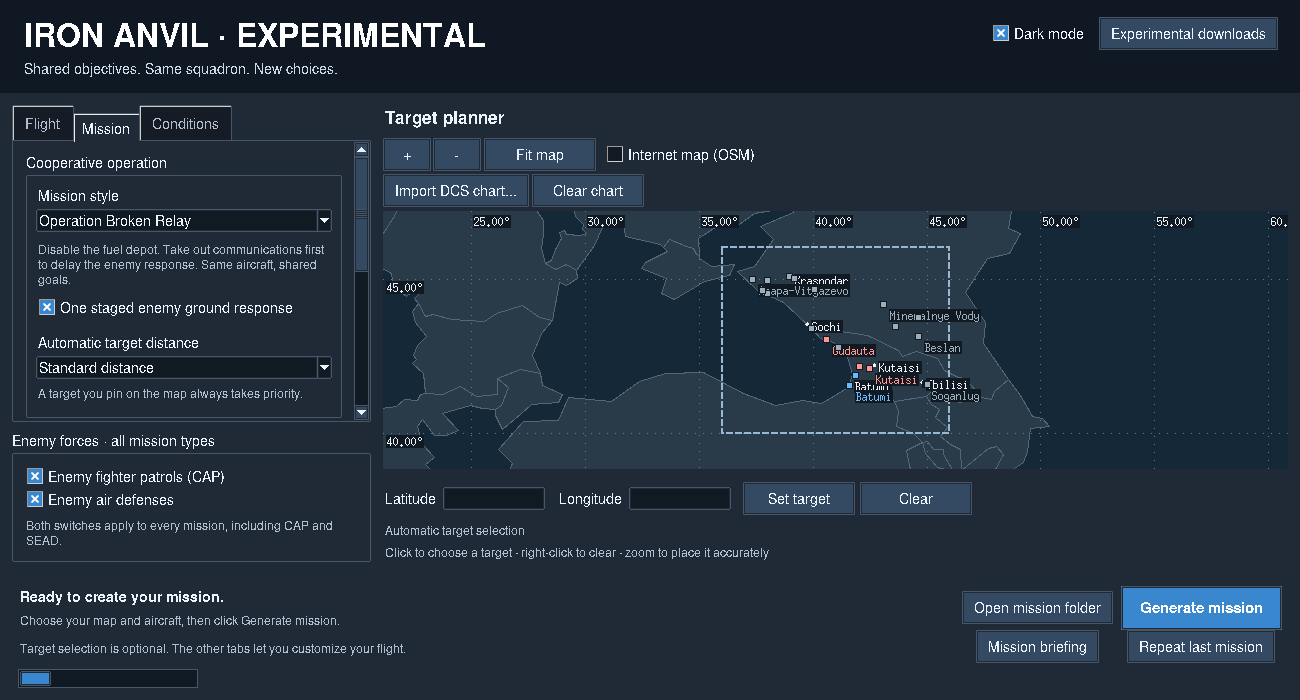
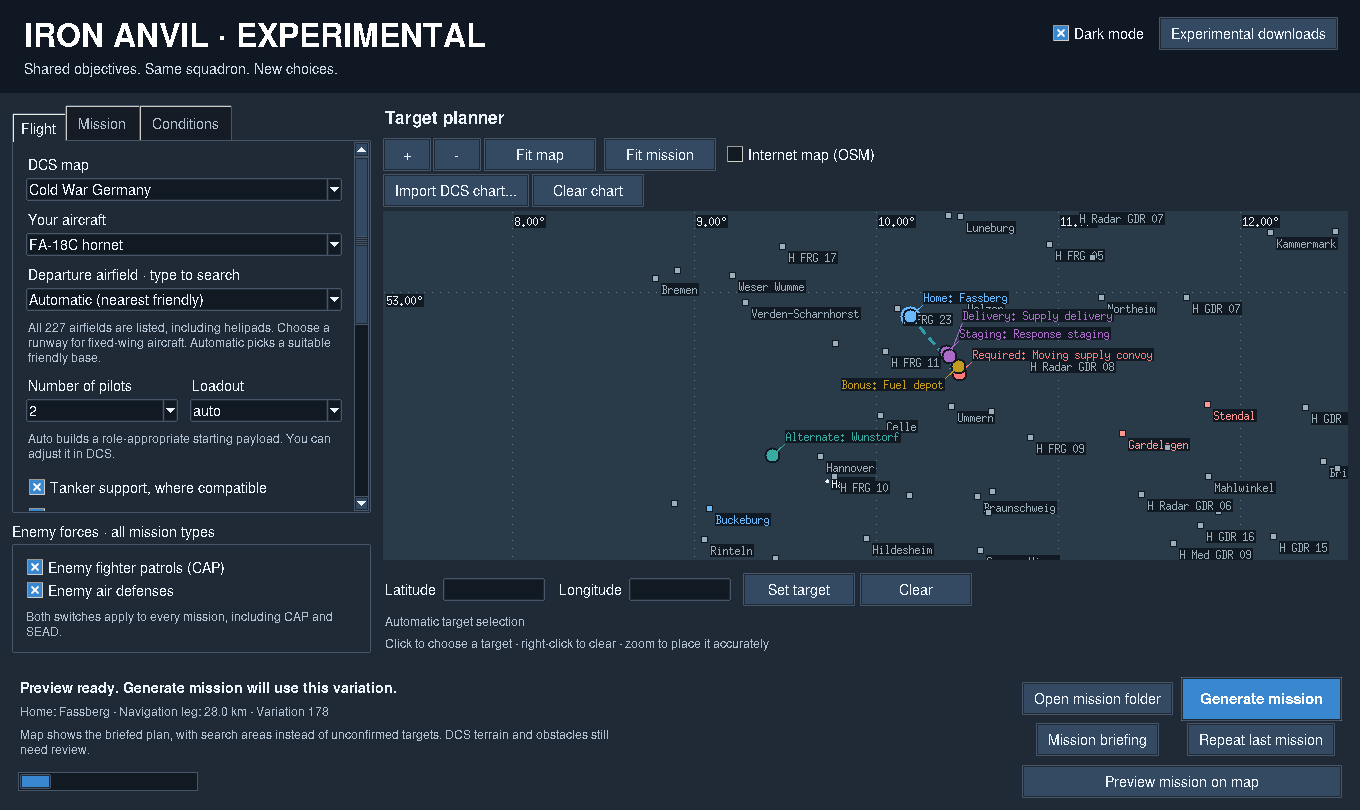
[publish-preview] Package convoy, recovery and intelligence update; verify actual preview upgrade

diff --git a/packaging/entrypoint.py b/packaging/entrypoint.py
@@ -157,15 +157,23 @@ def self_test() -> dict:
             cases.append(MissionOptions(map="caucasus", mission="facility", clients=2,
                                         weather=weather, seed=42))
         for key in THEATRES:
-            for operation in ("broken_relay", "supply_denial"):
+            for operation in ("broken_relay", "supply_denial", "rolling_thunder"):
                 for response in (False, True):
                     cases.append(MissionOptions(map=key, operation=operation, enemy_response=response,
                         seed=42, tanker=True, awacs=True, enemy_cap=False, air_defenses=False))
+            for operation in ("broken_relay", "rolling_thunder"):
+                cases.append(MissionOptions(map=key, operation=operation, intelligence="search",
+                    recovery="home_or_alternate", seed=178, tanker=True, awacs=True))
+            for aircraft in ("FA_18C_hornet", "AH_64D_BLK_II"):
+                cases.append(MissionOptions(map=key, aircraft=aircraft, operation="broken_relay",
+                    recovery="home_or_alternate", start="air", seed=91))
         missions = []
         weather_checks = {}
         facility_checks = []
         support_checks = 0
         operation_checks = 0
+        intelligence_checks = 0
+        alternate_checks = 0
         for index, options in enumerate(cases):
             path = generate(options, directory / f"mission-{index}.miz")
             with zipfile.ZipFile(path) as archive:
@@ -183,6 +191,15 @@ def self_test() -> dict:
                     raise RuntimeError("Mission settings cannot be replayed")
                 if not is_land(metadata["target_lat"], metadata["target_lon"]):
                     raise RuntimeError(f"Default target is offshore: {path.name}")
+                if options.intelligence == "search":
+                    roles={point["role"] for point in metadata["planner"]["points"]}
+                    if roles != {"home", "alternate", "search"}:
+                        raise RuntimeError("Search planner exposed an exact target or omitted an approved base")
+                    public=archive.read("ironanvil-briefing.html").decode()+archive.read("l10n/DEFAULT/dictionary").decode()
+                    actual=f"{metadata['target_lat']:.5f}, {metadata['target_lon']:.5f}"
+                    if actual in public:
+                        raise RuntimeError("Search briefing exposed exact target coordinates")
+                    intelligence_checks += 1
                 warehouses = lua.loads(archive.read("warehouses").decode("utf-8"))["warehouses"]
                 home = warehouses["airports"][metadata["home_airport_id"]]
                 if home["coalition"] != "BLUE" or not home["unlimitedFuel"] or not home["unlimitedMunitions"]:
@@ -196,6 +213,12 @@ def self_test() -> dict:
                     if metadata["options"][toggle] is not getattr(options, toggle):
                         raise RuntimeError(f"Enemy toggle mismatch: {path.name}")
                 saved = lua.loads(archive.read("mission").decode("utf-8"))["mission"]
+                if options.intelligence == "search":
+                    for country in saved["coalition"]["red"]["country"].values():
+                        for category in ("vehicle", "static"):
+                            for group in country.get(category, {}).get("group", {}).values():
+                                if group.get("hidden") is not True:
+                                    raise RuntimeError("Search mission exposes enemy ground symbols on F10")
                 weather = saved["weather"]
                 if options.mission == "facility":
                     sites = metadata["facility_sites"]
@@ -225,7 +248,8 @@ def self_test() -> dict:
                         if len(operation["objectives"]) != 2 or bool(operation.get("response")) != options.enemy_response:
                             raise RuntimeError("Operation roles or response switch failed")
                         primary, bonus = operation["objectives"]
-                        if not primary["required"] or bonus["required"] or primary["threshold"] > len(primary["statics"]):
+                        target_count=len(primary.get("statics", []))+len(primary.get("units", []))
+                        if not primary["required"] or bonus["required"] or primary["threshold"] > target_count:
                             raise RuntimeError("Operation cannot complete with its generated objects")
                         if ("OPERATION RESPONSE" in red_vehicles) != options.enemy_response:
                             raise RuntimeError("Saved response force does not match the selected option")
@@ -277,14 +301,36 @@ def self_test() -> dict:
                 raise RuntimeError(f"Multiplayer slots failed to reload: {path.name}")
             if not reloaded.terrain.airport_by_id(metadata["home_airport_id"]).is_blue():
                 raise RuntimeError(f"Selected airfield is not friendly: {path.name}")
+            if options.recovery == "home_or_alternate":
+                bases=metadata["runtime"]["recovery_bases"]
+                if len(bases)!=2 or bases[0]["name"]==bases[1]["name"]:
+                    raise RuntimeError("Alternate recovery needs two distinct approved bases")
+                for base in bases:
+                    airport=next(a for a in reloaded.terrain.airports.values() if a.name==base["name"])
+                    supply=warehouses["airports"][airport.id]
+                    if not airport.is_blue() or not supply["unlimitedFuel"] or not supply["unlimitedMunitions"]:
+                        raise RuntimeError("An approved recovery base is not friendly and supplied")
+                    if options.aircraft=="FA_18C_hornet" and not airport.runways:
+                        raise RuntimeError("Fixed-wing alternate has no runway")
+                alternate_checks+=1
+            if options.intelligence == "search":
+                center=metadata["runtime"]["intelligence"]["center"]
+                search=next(point for point in clients.points if point.name=="SEARCH AREA")
+                if (abs(search.position.x-center["x"])>.01 or abs(search.position.y-center["z"])>.01
+                        or any(point.name=="BONUS - OPTIONAL" for point in clients.points)):
+                    raise RuntimeError("Search flight route exposes an exact objective")
             missions.append({"map": options.map, "mission": options.mission,
                              "opposition": options.enemy_cap, "weather": options.weather,
-                             "departure": metadata["home_airport"]})
+                             "departure": metadata["home_airport"], "operation": options.operation,
+                             "intelligence": options.intelligence, "recovery": options.recovery,
+                             "aircraft": options.aircraft})
         checks.append(f"Generated and reloaded {len(missions)} missions: all maps/types/opposition, selected airfields and every weather")
         checks.append("Actual serialized rain, thunderstorm, fog and winds verified and reloaded")
         checks.append("Classic facilities retain three occupied sites; cooperative operations contain required and optional sites")
         checks.append("All missions contain decoded kneeboards, standalone briefings and replayable settings")
-        checks.append("Twelve cooperative operations cover both profiles, all maps and the response switch")
+        checks.append(f"{operation_checks} cooperative operations cover all three profiles, maps and the response switch")
+        checks.append(f"{intelligence_checks} search missions withhold exact coordinates, F10 symbols and navigation waypoints")
+        checks.append(f"{alternate_checks} jet/helicopter alternate-recovery missions verify distinct friendly supplied bases")
         checks.append("Support aircraft have immediate roles/protection and complete three-point racetrack routes")
 
     # These destinations are deliberately outside PyInstaller's read-only bundle.
@@ -295,6 +341,7 @@ def self_test() -> dict:
                 raise RuntimeError(f"Application data would be written into its installation: {output}")
     return {"channel": "experimental", "checks": checks, "missions": missions, "mission_count": len(missions),
             "operation_checks": operation_checks, "kneeboard_checks": len(missions),
+            "intelligence_checks": intelligence_checks, "alternate_checks": alternate_checks,
             "airport_counts": airport_counts, "weather_checks": weather_checks,
             "facility_checks": facility_checks, "support_checks": support_checks,
             "aircraft_count": len(catalogue), "pyproj_version": pyproj.__version__}
@@ -307,6 +354,8 @@ def smoke_gui() -> dict:
     from ironanvil.theatres import THEATRES
     from ironanvil.weather import WEATHER_LABELS
     from ironanvil.operations import OPERATION_LABELS, PACE_LABELS
+    from ironanvil.model import INTELLIGENCE_LABELS, RECOVERY_LABELS
+    import time
 
     original_data_dir = os.environ.get("IRONANVIL_DATA_DIR")
     with tempfile.TemporaryDirectory(prefix="IronAnvil-gui-test-") as temporary:
@@ -341,13 +390,27 @@ def smoke_gui() -> dict:
                     raise RuntimeError(f"Weather selector is missing {key}")
             app.departure_var.set("Stendal")
             app.weather_var.set(WEATHER_LABELS["rain"])
-            for operation in ("broken_relay", "supply_denial"):
+            for operation in ("broken_relay", "supply_denial", "rolling_thunder"):
                 app.operation_var.set(OPERATION_LABELS[operation])
                 app._operation_changed()
                 if app.collect_options().operation != operation:
                     raise RuntimeError("Desktop cooperative operation selector failed")
             app.pace_var.set(PACE_LABELS["compact"])
             app.response_var.set(False)
+            app.intelligence_var.set(INTELLIGENCE_LABELS["search"])
+            app.recovery_var.set(RECOVERY_LABELS["home_or_alternate"])
+            app.withdrawal_var.set(False)
+            app.seed_var.set("178")
+            app._preview()
+            deadline=time.monotonic()+45
+            while app._busy and time.monotonic()<deadline:
+                app.update();time.sleep(.01)
+            if app._busy or not app._preview_metadata or errors:
+                raise RuntimeError("Desktop mission preview failed")
+            roles={point["role"] for point in app._preview_metadata["planner"]["points"]}
+            app.map_view._render()
+            if roles!={"home", "alternate", "search"} or not app.map_view.canvas.find_withtag("mission-plan"):
+                raise RuntimeError("Desktop search preview exposes hidden targets or lacks map markers")
             app._save_settings()
             app.after(750, app.quit)
             app.mainloop()
@@ -360,14 +423,17 @@ def smoke_gui() -> dict:
             app.update()
             if (app.theme_var.get() != "light" or app.departure_var.get() != "Stendal"
                     or app.weather_var.get() != WEATHER_LABELS["rain"]
-                    or app.collect_options().operation != "supply_denial"
-                    or app.collect_options().pace != "compact" or app.collect_options().enemy_response):
+                    or app.collect_options().operation != "rolling_thunder"
+                    or app.collect_options().pace != "compact" or app.collect_options().enemy_response
+                    or app.collect_options().intelligence != "search"
+                    or app.collect_options().recovery != "home_or_alternate" or app.collect_options().allow_withdrawal):
                 raise RuntimeError("Preferences did not survive a desktop restart")
             if errors:
                 raise RuntimeError("Tk callback failed after restart: " + errors[0])
             return {"checks": ["Actual desktop window opened", "All three offline maps rendered in dark and light modes",
-                               "Complete airfield/weather selectors", "Theme, airfield and weather survive restart", "Tk event loop completed"],
-                    "maps": rendered, "tk_version": tk_version, "preferences_reloaded": True}
+                               "Complete airfield/weather selectors", "Asynchronous search mission preview renders public map markers",
+                               "Theme, airfield, weather and operation/intelligence/recovery controls survive restart", "Tk event loop completed"],
+                    "maps": rendered, "tk_version": tk_version, "preferences_reloaded": True, "mission_preview_passed": True}
         finally:
             if app is not None:
                 app.destroy()
@@ -392,6 +458,8 @@ def main(argv: list[str] | None = None) -> int:
     try:
         log_path = configure_logging()
         if testing:
+            from ironanvil import __version__, RELEASE_TAG
+            report.update(version=__version__, release_tag=RELEASE_TAG)
             report.update(self_test() if args.self_test else smoke_gui())
             report["ok"] = True
             logging.info("%s passed", report["mode"])

diff --git a/ironanvil/operations.py b/ironanvil/operations.py
@@ -127,13 +127,13 @@ def operation_briefing(operation):
         kind = 'supply trucks' if objective.get('units') else 'objective structures'
         lines.append(f"{role}: {objective['title']} — disable {objective['threshold']} of {total} {kind}. Guards and scenery do not count.")
     if operation.get('convoy'):
-        lines.extend(['The supply convoy departs when a client is airborne. F10 target position follows the live convoy.',
+        lines.extend(['The supply convoy departs when a client is airborne. Once intelligence is confirmed, F10 target position follows the live convoy.',
                       'Stop two supply trucks before delivery for 150 extra shared points. Escorts are not mandatory targets.',
                       'Delivery does not fail the mission, but a surviving convoy can accelerate a still-preparing response to one minute.'])
     response = operation.get('response')
     if response:
         lines.extend([
-            f"The first damage to either site raises the alarm. One finite ground response can dispatch after {response['delay']} seconds, then must travel to the main site.",
+            f"The first damage to a required or bonus objective raises the alarm. One finite ground response can dispatch after {response['delay']} seconds, then must travel to " + ('the convoy delivery area.' if operation.get('convoy') else 'the main site.'),
             ('Disable communications before dispatch to add six minutes to the response delay.'
              if operation['id'] == 'broken_relay' else
              'Disable the bonus fuel site before dispatch to cancel the response. A force already dispatched will not disappear.'),
@@ -141,7 +141,7 @@ def operation_briefing(operation):
         ])
     else:
         lines.append('Ground response is disabled. The optional site still earns a bonus.')
-    lines.extend(['After the required objective is disabled, return to home base. You may complete the bonus before recovering.',
+    lines.extend(['After the required objective is disabled, recover at an approved base. You may complete the bonus before recovering.',
                   'F10 > Iron Anvil > Operation status shows individual goals and the response state.',
                   'Main objective: 300 points; bonus: 100; each surviving client recovered: 25. Score is shared, not a kill contest.',
                   f"Replay seed: {operation['seed']}."])

diff --git a/tests/test_intelligence.py b/tests/test_intelligence.py
@@ -48,3 +48,18 @@ def test_ground_search_mode_is_optional_and_cap_rejects_it():
     assert MissionOptions(intelligence='precise').validate()
     with pytest.raises(ValueError,match='ground missions'):MissionOptions(mission='cap',intelligence='search').validate()
     with pytest.raises(ValueError):MissionOptions(intelligence='unknown').validate()
+
+
+@pytest.mark.parametrize('terrain',['caucasus','syria','germany'])
+@pytest.mark.parametrize('mission_type',['facility','line','convoy','sead'])
+def test_classic_ground_missions_also_keep_search_targets_out_of_public_briefings(tmp_path,terrain,mission_type):
+    path=generate(MissionOptions(map=terrain,mission=mission_type,intelligence='search',seed=178),tmp_path/'classic-search.miz')
+    with zipfile.ZipFile(path) as archive:
+        metadata=json.loads(archive.read('ironanvil.json'))
+        public=archive.read('ironanvil-briefing.html').decode()+archive.read('l10n/DEFAULT/dictionary').decode()
+    assert f"{metadata['target_lat']:.5f}, {metadata['target_lon']:.5f}" not in public
+    assert {point['role'] for point in metadata['planner']['points']}=={'home','search'}
+    mission=Mission();mission.load_file(str(path))
+    points=mission.coalition['blue'].find_group('IRON ANVIL CLIENTS').points
+    assert any(point.name=='SEARCH AREA' for point in points)
+    assert not any(point.name in ('TARGET','BONUS - OPTIONAL') for point in points)

diff --git a/docs/releases/v1.3.1-experimental.2.md b/docs/releases/v1.3.1-experimental.2.md
@@ -1,0 +1,34 @@
+# Iron Anvil Experimental — convoys, recovery and intelligence
+
+More choices for a co-op evening with the aircraft and maps your group already owns. This is the **second experimental preview**. [Stable 1.2](https://github.com/SkylerErcoli/DCSMissionGeneratorJamesIronDemonAnvil/releases/tag/v1.2.0) stays available, unchanged, and installed separately.
+
+## What's new since the first preview
+
+- **Operation Rolling Thunder:** hunt a moving supply convoy. Stop two of its three cargo trucks before delivery for bonus points. If supplies arrive, a still-preparing ground response mobilizes sooner; the main objective remains achievable. Destroying bonus fuel support before dispatch cancels the response. Escorts and scenery never become mandatory cleanup targets.
+- **Recover at a friendly alternate:** choose home-only recovery or approve a suitable friendly alternate. Both bases have fuel and ammunition, and F10 can give vectors. Jets get a runway; helicopters can use compatible helicopter bases.
+- **Withdraw with a useful result:** agree over comms, propose withdrawal through F10, and confirm within 30 seconds. A teammate can cancel the proposal. Recover every survivor for a partial debrief with proportional objective credit. Enemies stay active; completing the main objective before recovery can still earn full success.
+- **Search-area intelligence:** optionally start with an approximate search area. Keep an airborne teammate inside for 45 continuous seconds, then request F10 **Recon check-in** to share target coordinates and earn a small team bonus. Exact targets are withheld from the briefing, navigation waypoints, planner and initial F10 marks. Enemy ground symbols are hidden. This is a radio-intelligence game rule, not simulated aircraft sensor recognition; you can still find targets visually.
+- **Preview before generating:** see home, alternate, known targets and staging areas, or the search area, on the map. Preview chooses a variation number if needed so Generate uses the same plan. Changing settings clears the preview. Nearby labels use separate callouts; **Fit mission** brings the plan back into view.
+- **Updated briefings and replay:** kneeboards, local briefings, saved presets and shared settings include the new choices. Optional targets receive a navigation waypoint when precise intelligence is selected.
+
+Broken Relay, Supply Denial, classic missions, dark/light mode, nine weather choices, all 472 catalogued airfields/helipads, protected tanker/AWACS support and independent CAP/air-defense switches remain available. Everyone can keep flying the same aircraft type. No extra client mods or scripting changes are required.
+
+## Download and update
+
+### [Windows installer — Iron Anvil Experimental](https://github.com/SkylerErcoli/DCSMissionGeneratorJamesIronDemonAnvil/releases/download/v1.3.1-experimental.2/IronAnvil-Experimental-Setup-x64.exe)
+
+Windows 10/11, 64-bit. Double-click the installer, then open **Iron Anvil Experimental** from Start. **Already have the first experimental preview? Run this installer over it; no uninstall is needed.** The installer is unsigned, so Windows may show an unrecognized publisher prompt. No Python or command line is needed.
+
+[Portable ZIP](https://github.com/SkylerErcoli/DCSMissionGeneratorJamesIronDemonAnvil/releases/download/v1.3.1-experimental.2/IronAnvil-Experimental-Windows-x64.zip): choose **Extract All**, then open **IronAnvil.exe**. Keep the entire folder, including `_internal`.
+
+Experimental installs and updates its own copy, settings and mission folder. The stable app's updater does not offer previews. Only the mission creator needs this generator; friends need DCS and the selected map/aircraft modules.
+
+## Validation and first flight
+
+Release checks exercise **73 generated/reloaded missions in each Windows frozen and installed app**, including 30 cooperative-operation cases, six search cases and twelve alternate-recovery cases. The desktop probe renders all maps in both themes, previews a search mission and reloads settings. Packaging also verifies the published old experimental installer, upgrades it in place, and checks stable 1.2 still works after experimental uninstall. The validation reports are attached below with the downloads and checksums.
+
+**This preview has not been flown in DCS.** Automated archive and Lua tests cannot establish terrain clearance, road/ground AI behavior, static damage recognition, multiplayer timing or in-simulator kneeboard display. Review your first mission in the Mission Editor and start with opposition off while learning the new rules.
+
+F10 → **Iron Anvil** contains status, target marks, search check-in when enabled, recovery vectors and the optional team withdrawal procedure.
+
+[Stable 1.2 download](https://github.com/SkylerErcoli/DCSMissionGeneratorJamesIronDemonAnvil/releases/tag/v1.2.0) · [Player guide](https://github.com/SkylerErcoli/DCSMissionGeneratorJamesIronDemonAnvil/blob/experimental/README.md) · [Work log and remaining limits](https://github.com/SkylerErcoli/DCSMissionGeneratorJamesIronDemonAnvil/blob/experimental/docs/experimental/PROGRESS.md)

diff --git a/README.md b/README.md
@@ -2,7 +2,7 @@
 
 Richer co-op missions for the aircraft and maps your group already owns. Everyone can fly the same aircraft type and work toward shared objectives.
 
-**[Download the experimental preview and read what's new](https://github.com/SkylerErcoli/DCSMissionGeneratorJamesIronDemonAnvil/releases/tag/v1.3.0-experimental.1)**
+**[Download the experimental preview and read what's new](https://github.com/SkylerErcoli/DCSMissionGeneratorJamesIronDemonAnvil/releases/tag/v1.3.1-experimental.2)**
 
 **Your stable version is separate:** [Iron Anvil 1.2](https://github.com/SkylerErcoli/DCSMissionGeneratorJamesIronDemonAnvil/releases/tag/v1.2.0) remains unchanged for normal play. This branch uses its own installer identity, settings, cache and mission folder.
 
@@ -10,14 +10,20 @@ Richer co-op missions for the aircraft and maps your group already owns. Everyon
 
 - **Broken Relay:** disable two of three fuel tanks. Destroy a command structure first to delay a finite enemy ground response by six minutes.
 - **Supply Denial:** disable an ammunition structure. Destroy bonus fuel support before dispatch to cancel the ground response.
+- **Rolling Thunder:** intercept a moving supply convoy. Stopping two cargo trucks before delivery earns a bonus; letting supplies arrive accelerates a still-preparing ground response. Destroy bonus fuel support before dispatch to cancel that response.
 - **Choose your priorities:** either site can be attacked first. Bonus goals are optional; guards and decorative scenery never block the required objective.
-- **Bring the team home:** every participating surviving pilot must recover. A shared debrief records required/bonus goals, recovery, losses and replay seed.
+- **Bring the team back:** every participating surviving pilot must recover at home or an approved friendly alternate, when enabled. A shared debrief records required/bonus goals, recovery, losses and replay seed.
+- **Know when to disengage:** a two-step F10 team withdrawal command lets survivors recover with partial objective credit. Enemies stay active, and completing the main goal before recovery can still earn full success.
 
 The ground response is one preplaced force that must travel from its staging area. It has no respawn loop. Turn it off independently if you prefer a quieter sortie. Enemy CAP and air defenses retain their own switches.
 
 ## Plan, brief and replay
 
 Choose close-to-base, standard or longer automatic target distances, adjusted for helicopters. A target pinned on the map takes priority.
+
+**Preview mission on map** shows the briefed objectives, staging area and recovery bases before writing a mission. Preview chooses a variation number if needed; Generate then uses that plan. Change settings to prepare another plan.
+
+**Optional search-area intelligence:** start with an approximate area instead of exact target coordinates. Keep an airborne teammate in the area for 45 continuous seconds, then use F10 **Recon check-in** to share the updated target locations. This is a radio-intelligence game rule that works with any selected aircraft; it does not simulate sensor recognition. You can still find and attack targets visually.
 
 Every mission includes a **DCS kneeboard** with objectives, coordinates, frequencies and a route schematic. **Mission briefing** opens a readable local page for planning and printing.
 
@@ -30,12 +36,12 @@ The original five mission types remain available through **Classic single missio
 1. Download the **experimental installer** from the preview page, double-click it, and open **Iron Anvil Experimental** from the Start menu. It installs beside stable 1.2 without replacing it.
 2. Choose your map, aircraft and one to four pilots.
 3. In **Mission**, choose an operation and target distance. Leave the target automatic or pin it on the map.
-4. Choose opposition, generate the mission, and open **Mission briefing**.
+4. Choose opposition, preview the map, generate the mission, and open **Mission briefing**.
 5. Host the `.miz` in DCS. Only the mission creator needs this app; friends need DCS and the selected map/aircraft modules.
 
 No Python, commands, extra client mods or DCS scripting changes are required. Windows 10/11, 64-bit. A portable ZIP is also available; extract it and keep the entire app folder together.
 
-The preview has its own **Experimental downloads** page. Its installers update only the experimental copy. The stable app's update feed does not offer previews.
+The preview has its own **Experimental downloads** page. Run the newer experimental installer to update the existing experimental copy in place; uninstalling first is unnecessary. The stable app's update feed does not offer previews.
 
 ## Preview status
 

diff --git a/docs/experimental/README.md b/docs/experimental/README.md
@@ -1,8 +1,8 @@
 # Iron Anvil experimental gameplay
 
-**Status: [the first experimental preview is published](https://github.com/SkylerErcoli/DCSMissionGeneratorJamesIronDemonAnvil/releases/tag/v1.3.0-experimental.1). Windows packaging/coexistence and automated mission checks passed. Real DCS flight testing remains outstanding.**
+**Status: [the convoy, recovery and intelligence preview](https://github.com/SkylerErcoli/DCSMissionGeneratorJamesIronDemonAnvil/releases/tag/v1.3.1-experimental.2). Windows packaging/coexistence and automated mission checks passed. Real DCS flight testing remains outstanding.**
 
-Implemented: Broken Relay and Supply Denial, required/optional functional goals, one finite staged response with delay/cancel consequences, shared debrief, distance presets, mission kneeboards, local briefings, named presets and replay import/export. Read the [work log](PROGRESS.md) for exact checks and remaining limits.
+Implemented: Broken Relay, Supply Denial and Rolling Thunder; required/optional functional goals; a moving supply convoy with delivery consequences; one finite staged response with delay/cancel consequences; shared debrief and partial-credit withdrawal; friendly alternate recovery; optional search-area intelligence; map previews; distance presets; mission kneeboards/local briefings; named presets and replay import/export. Read the [work log](PROGRESS.md) for exact checks and remaining limits.
 
 This development line starts from the existing application on the `experimental` branch. The [stable 1.2.0 download](https://github.com/SkylerErcoli/DCSMissionGeneratorJamesIronDemonAnvil/releases/tag/v1.2.0), `main`, and the stable update feed remain unchanged.
 
@@ -14,11 +14,13 @@ Generate a self-contained operation with several related objectives and optional
 
 For example:
 
-> **Operation Broken Relay** — Your group must disable an enemy logistics complex. An optional communications site coordinates its response force. Destroying the relay delays the response; intercepting an ammunition convoy prevents a later ground reinforcement. You can complete the main strike and leave, or accept a harder bonus objective. Return to base for a shared debrief showing which objectives you achieved and what your choices changed.
+> **Operation Broken Relay** — Your group must disable an enemy logistics complex. An optional communications site coordinates its response force. Destroying the relay delays the response. In a separate Rolling Thunder sortie, intercept moving supplies before delivery or attack bonus fuel support to cancel the staged response. You can complete the main strike and leave, or accept a harder bonus objective. Return to base for a shared debrief showing which objectives you achieved and what your choices changed.
 
-The first implementation should work for the existing aircraft selection and two-to-four-player group. Mixed aircraft, helicopters, campaign saves, and external frameworks can follow once that first mission is enjoyable and reliable.
+The implemented operations work with the existing aircraft selection, including supported helicopters, and one to four clients. Mixed aircraft packages, campaign saves and external frameworks remain future possibilities.
 
-## What to add, in priority order
+## Research roadmap and next possibilities
+
+The first five rows now have initial implementations: functional goals/partial withdrawal, linked consequences, finite reserves, target-distance/intelligence controls, and the area check-in rule. These still need DCS playtesting and tuning. Sensor-specific reconnaissance, mini-campaigns and the later rows remain proposals.
 
 | Priority | Proposal | What makes it fun | Relative effort / uncertainty |
 | --- | --- | --- | --- |
@@ -45,7 +47,7 @@ Effort is relative to this codebase, not a delivery estimate. Every gameplay cha
 - Terrain-aware clearance and placement checks where DCS can provide terrain information, plus curated templates tested at known sites. Offline coastline checks do not establish safe ground placement.
 - Era and faction packs for coherent Cold War and WWII scenarios, including appropriate ground equipment and defenses. Germany's mission date alone does not make a WWII force set.
 
-## Suggested first playable experiment
+## Original first-experiment design (implemented)
 
 Build **Operation Broken Relay** on the existing facility mission type, with:
 

diff --git a/docs/DEVELOPMENT.md b/docs/DEVELOPMENT.md
@@ -18,7 +18,7 @@ py -3 -m ironanvil
 
 The pinned GitHub pydcs revision includes Cold War Germany; the PyPI release with the same version number does not. If an older pydcs installation takes precedence, run **`fix_pydcs.bat`**, then **`doctor.bat`**. Use the same Python for installation and launch. `run_gui.bat` retains console errors; the `.pyw` launcher displays errors and writes `gui_error.log`.
 
-Generated missions default to `Saved Games\DCS\Missions\IronAnvil`, or an existing `DCS.openbeta` folder. The GUI output directory is configurable.
+Generated missions default to `Saved Games\DCS\Missions\IronAnvilExperimental` on this branch, or an existing `DCS.openbeta` folder. The GUI output directory is configurable.
 
 ## Optional command-line interface
 
@@ -30,7 +30,7 @@ py -3 -m ironanvil generate --map germany --mission facility --target 52.55 11.4
 py -3 -m ironanvil generate --map syria --mission facility --facility-type fuel --weather rain --departure-airport Incirlik
 ```
 
-`generate --help` lists all options; `list --json` prints a machine-readable catalogue. Linux output defaults to `~/IronAnvil/Missions`; `--output-dir` overrides it.
+`generate --help` lists all options; `list --json` prints a machine-readable catalogue. Linux output defaults to `~/IronAnvilExperimental/Missions`; `--output-dir` overrides it.
 
 ## Development and cloud environment
 
@@ -58,7 +58,7 @@ From PowerShell in the repository folder, run the supported build entry point:
 .\tools\build_experimental_windows.ps1
 ```
 
-On the experimental branch, this script builds the separate experimental installer, exercises 55 frozen and 55 installed missions, and tests coexistence alongside the verified published stable 1.2.0 app. Experimental reinstall and uninstall must retain stable executable/settings and existing mission bytes. The stable executable is actually run afterward. Reports go to `test-results`. Use a clean Windows runner; the script refuses an existing real installation. The old stable build script refuses experimental source.
+On the experimental branch, this script builds the separate experimental installer, exercises 73 frozen and 73 installed missions (30 operation, six search and twelve alternate-recovery cases), and tests coexistence alongside the verified published stable 1.2.0 app. It also installs the verified published first experimental preview and upgrades it to the new build without a directory override. Experimental reinstall and uninstall must retain stable executable/settings and existing mission bytes. The stable executable is actually run afterward. Reports go to `test-results`. Use a clean Windows runner; the script refuses an existing real installation. The old stable build script refuses experimental source.
 
 Successful builds produce:
 
@@ -69,7 +69,7 @@ Successful builds produce:
 | Experimental update channel | Manual prerelease downloads; this build never consumes the stable update feed. |
 | `dist/SHA256SUMS.txt` | SHA-256 checksums for the experimental installer and ZIP. |
 
-The [experimental release workflow](../.github/workflows/experimental-release.yml) runs the Windows build and Linux/Lua regression checks before publishing versioned release assets. Building a package does not establish that its checks passed or that a release has been published; inspect the workflow's results and release assets. DCS itself is not exercised by these build checks.
+The [experimental release workflow](../.github/workflows/experimental-release.yml) runs Linux/Lua regression checks on source pushes. Windows packaging and publication require a deliberate commit containing `[publish-preview]` or a workflow dispatch. Successful publication creates immutable prerelease assets with `--latest=false`; a new binary requires a new release tag. These checks run before publishing versioned release assets. Building a package does not establish that its checks passed or that a release has been published; inspect the workflow's results and release assets. DCS itself is not exercised by these build checks.
 
 ## Mission implementation notes
 

diff --git a/docs/experimental/PROGRESS.md b/docs/experimental/PROGRESS.md
@@ -85,3 +85,11 @@ Implemented optional search-area intelligence for ground missions. Public planni
 Added an asynchronous map preview showing home, alternate and briefed objectives or search area. Preview fixes a previously blank variation number so Generate uses the same plan; changing settings clears the plan and stale worker results are ignored. Preview writes no mission file. Nearby marker labels use separated callouts, with pan/zoom and Fit mission controls retained.
 
 Validation: **85 focused GUI/recipe/intelligence/Lua checks passed**, including 39 Lua scenarios, search archives on all three maps, absence of exact target coordinates from public briefings, actual saved hidden symbols/search waypoints, asynchronous preview-to-generated-plan equality, stale-result handling and nearby label readability. The worst-case search/alternate/support kneeboard was visually checked and fits its page. Combined Windows packaging, actual old-preview upgrade and full regression validation are next; no new binary is published at this checkpoint.
+
+## Continued creative development — batch 8 release preflight
+
+Expanded exact-app probes to **73 missions** each: 43 classic/weather/catalogue cases plus 30 operation cases, including six search missions and twelve alternate-recovery cases. Every mission includes a decoded kneeboard and replayable settings. Desktop probes now exercise a real asynchronous search preview and persistent intelligence/recovery/withdrawal choices as well as all six map/theme combinations. Reports include the exact version/tag.
+
+The Windows build now downloads and SHA-256-verifies the actual published first experimental installer, installs it beside stable 1.2, upgrades it without `/DIR`, and checks preferences, mission bytes and stable executable preservation across upgrade/reinstall/uninstall. The stable executable is run again afterward. All release assets use the new immutable `v1.3.1-experimental.2` tag and never become the stable latest release.
+
+Source preflight: full suite **359 passed, no skips**, then **46 operation/intelligence checks passed**, including twelve newly added classic-ground search privacy cases across every map and mission type. The 73-mission source executable probe and actual desktop smoke/preview/restart probe passed. The planner screenshot and player/release guides are updated. Windows and CI results remain pending this deliberate publication checkpoint; continue monitoring rather than ending at the push.
